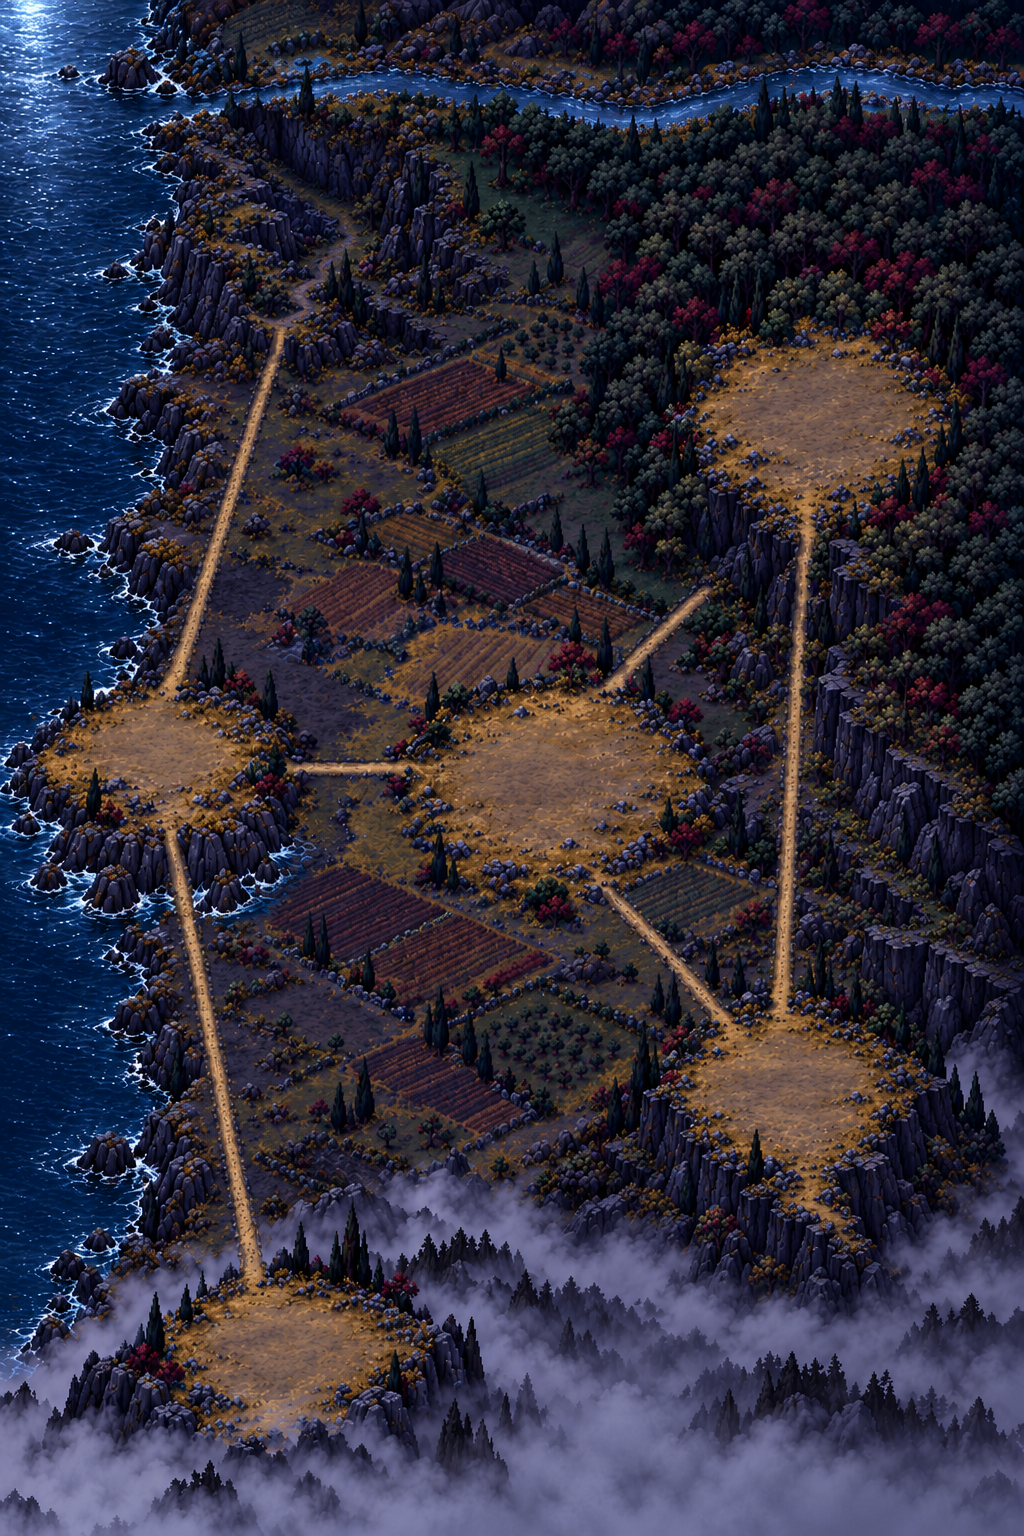
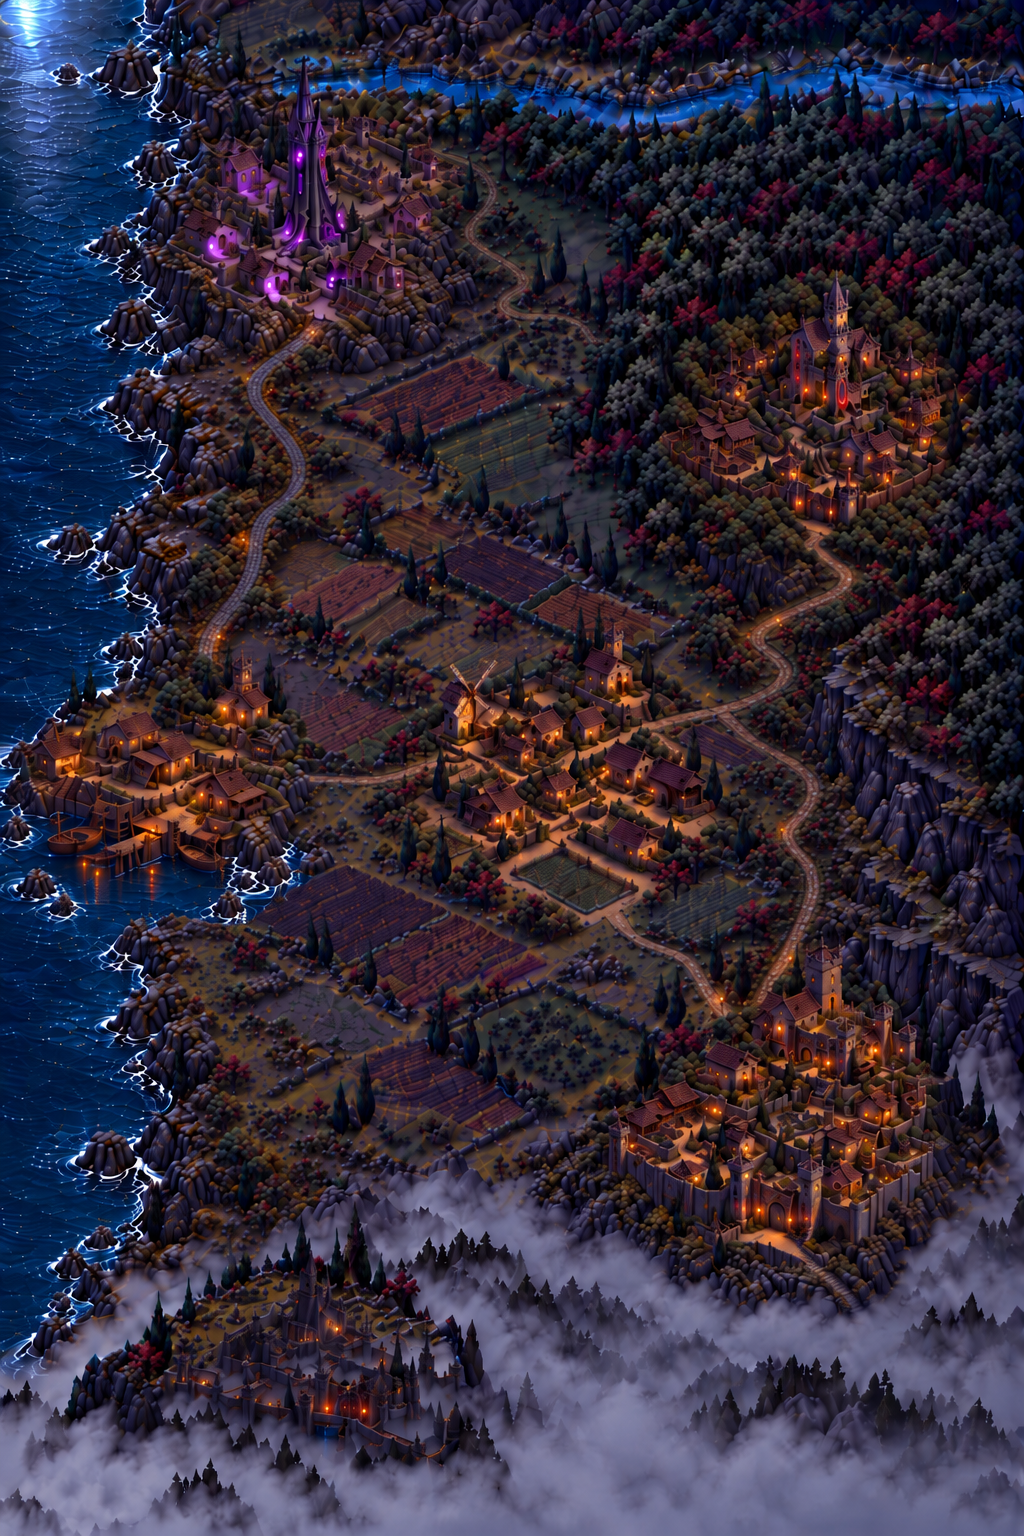
Empire: the author's final map with settlements drawn in
- map_act1_base.png is the author's map with all settlements, winding roads and the southern cities baked in; the separate settlement sprites are no longer drawn over it
- the starting village's light streets are darkened in the asset build to match the rest of the map (window and rune lights untouched)
- town markers become tap areas sized to each drawn settlement, with the name, flag and obelisk as before
- obelisk spots sit on the drawn roads (road) or next to them (field, forest)
- south_city sprite removed: the closed cities are part of the map now

Claude-Session: https://claude.ai/code/session_019MjjXLha8yNk8xC45jXx5G

diff --git a/OlaPT/Views/Game/EmpireView.swift b/OlaPT/Views/Game/EmpireView.swift
@@ -2,37 +2,42 @@ import SwiftUI
 
 // MARK: - Вкладка «Империя»: карта Акта 1, войско, указы
 
-/// Места на карте 320×480 (та же схема, что во вкладке «Правила Акта 1»).
+/// Места на карте 320×480. Поселения, дороги и города юга нарисованы прямо на карте автора
+/// (Tools/game/art/map_act1_base.png) — здесь их центры, площади для нажатия и места обелисков.
 enum MapLayout {
     static let width: CGFloat = 320
     static let height: CGFloat = 480
 
+    /// Центры поселений на карте
     static let towns: [CGPoint] = [
-        CGPoint(x: 95, y: 64), CGPoint(x: 46, y: 242), CGPoint(x: 174, y: 242),
-        CGPoint(x: 250, y: 132), CGPoint(x: 238, y: 350),
+        CGPoint(x: 98, y: 58), CGPoint(x: 50, y: 236), CGPoint(x: 181, y: 235),
+        CGPoint(x: 254, y: 123), CGPoint(x: 240, y: 342),
     ]
-    /// Размер поселения на карте (картинки — втрое подробнее, Tools/game/build_game_assets.py)
+    /// Сколько места поселение занимает на карте: сюда нажимают, под ним — подпись
+    static let townSize: [CGSize] = [
+        CGSize(width: 72, height: 76), CGSize(width: 88, height: 58), CGSize(width: 78, height: 70),
+        CGSize(width: 84, height: 74), CGSize(width: 94, height: 94),
+    ]
+    /// Картинки поселений для шапки карточки (втрое подробнее, Tools/game/build_game_assets.py)
+    static let sprites = ["settle_0_calada", "settle_1_redes", "settle_2_trigo", "settle_3_souto", "settle_4_monte"]
     static let spriteSize: [CGSize] = [
         CGSize(width: 96, height: 112), CGSize(width: 96, height: 96), CGSize(width: 96, height: 96),
         CGSize(width: 96, height: 96), CGSize(width: 112, height: 112),
     ]
-    static let sprites = ["settle_0_calada", "settle_1_redes", "settle_2_trigo", "settle_3_souto", "settle_4_monte"]
-    static let south = CGPoint(x: 84, y: 428)
+    /// Большие города юга в тумане
+    static let south = CGPoint(x: 97, y: 422)
 
-    /// Место для обелиска: на дороге или чуть в стороне от неё (поле, лес).
+    /// Места для обелисков: «дорога» — на нарисованной дороге, «поле» и «лес» — рядом с ней.
+    static let spots: [CGPoint] = [
+        CGPoint(x: 92, y: 145),  CGPoint(x: 110, y: 185),   // башня — сети
+        CGPoint(x: 115, y: 241), CGPoint(x: 110, y: 278),   // сети — долина
+        CGPoint(x: 190, y: 186), CGPoint(x: 224, y: 178),   // долина — роща
+        CGPoint(x: 202, y: 295), CGPoint(x: 218, y: 280),   // долина — крепость
+        CGPoint(x: 276, y: 196), CGPoint(x: 252, y: 265),   // роща — крепость
+    ]
+
     static func spot(_ id: Int) -> CGPoint {
-        let s = Act1.spots[id]
-        let a = towns[s.between.0], b = towns[s.between.1]
-        let first = Act1.spots.first(where: { $0.between == s.between })?.id == id
-        let t: CGFloat = first ? 0.40 : 0.60
-        var p = CGPoint(x: a.x + (b.x - a.x) * t, y: a.y + (b.y - a.y) * t)
-        if s.terrain != .road {
-            let dx = b.x - a.x, dy = b.y - a.y
-            let len = max(1, (dx * dx + dy * dy).squareRoot())
-            p.x += -dy / len * 14
-            p.y += dx / len * 14
-        }
-        return p
+        return spots[id]
     }
 }
 
@@ -203,19 +208,13 @@ struct EmpireView: View {
                         .position(x: (MapLayout.towns[p.from].x + MapLayout.towns[p.target].x) / 2 * s,
                                   y: (MapLayout.towns[p.from].y + MapLayout.towns[p.target].y) / 2 * s)
                 }
-                Image("south_city")
-                    .interpolation(.high)
-                    .resizable()
-                    .frame(width: 120 * s, height: 80 * s)
-                    .opacity(0.9)
-                    .position(x: MapLayout.south.x * s, y: MapLayout.south.y * s)
                 Text(L("Большие города юга"))
                     .font(Theme.pixel(10, relativeTo: .caption2))
                     .foregroundColor(Theme.textDim)
                     .padding(.horizontal, 4)
                     .background(Theme.panelDeep.opacity(0.75))
                     .fixedSize()
-                    .position(x: MapLayout.south.x * s, y: (MapLayout.south.y + 42) * s)
+                    .position(x: MapLayout.south.x * s, y: (MapLayout.south.y + 32) * s)
             }
         }
         .aspectRatio(MapLayout.width / MapLayout.height, contentMode: .fit)
@@ -228,17 +227,16 @@ struct EmpireView: View {
     @ViewBuilder
     private func townMarker(_ i: Int, scale s: CGFloat) -> some View {
         let t = game.towns[i]
-        let size = MapLayout.spriteSize[i]
+        let size = MapLayout.townSize[i]
         let p = MapLayout.towns[i]
         Button {
             town = TownRef(id: i)
         } label: {
             ZStack(alignment: .top) {
-                Image(MapLayout.sprites[i])
-                    .interpolation(.high)
-                    .resizable()
+                // само поселение нарисовано на карте — здесь только место для нажатия
+                Color.clear
                     .frame(width: size.width * s, height: size.height * s)
-                    .saturation(t.owner == .mask ? 1 : 0.75)
+                    .contentShape(Rectangle())
                 VStack(spacing: 1) {
                     Text(GameTexts.townName(i))
                         .font(Theme.pixel(10, relativeTo: .caption2))

diff --git a/Tools/game/build_game_assets.py b/Tools/game/build_game_assets.py
@@ -30,8 +30,8 @@ SETTLEMENTS = [
     ("settle_4_monte", 112, 112),
 ]
 MAP = ("map_act1", 320, 480)
-# Большие города юга в тумане: закрыты в Акте 1
-SOUTH = ("south_city", 120, 80)
+# Поселения и большие города юга нарисованы прямо на карте (map_act1_base.png);
+# отдельные картинки поселений нужны только для шапки карточки поселения.
 
 
 def imageset(name, img, scales=(1,), template=False, folder=OUT):
@@ -68,6 +68,39 @@ def graded(img, k, tint, sat):
     out = g + (out - g) * sat
     out = out * (1 - lights) + rgb * lights
     return Image.fromarray(np.dstack([np.clip(out, 0, 255), al]).astype("uint8"))
+
+
+def darker_calada_streets(img):
+    """Молчаливая деревня на карте автора: светлые улицы и площадь у башни — темнее,
+    как дороги остальной карты. Фиолетовые огни и окна не трогаем."""
+    import numpy as np
+    w0, h0 = img.size
+    k = w0 / 1024
+    a = np.asarray(img).astype(float)
+    hsv = np.asarray(img.convert("HSV")).astype(float)
+    s, v = hsv[..., 1], hsv[..., 2]
+
+    def smooth(x, lo, hi):
+        t = np.clip((x - lo) / (hi - lo), 0, 1)
+        return t * t * (3 - 2 * t)
+
+    # плато деревни (в точках картинки 1024×1536)
+    poly = [(205, 170), (240, 140), (350, 115), (385, 110), (450, 145), (460, 190), (435, 230),
+            (410, 275), (360, 290), (350, 320), (315, 340), (290, 320), (255, 300), (210, 275), (190, 240)]
+    area = Image.new("L", img.size, 0)
+    ImageDraw.Draw(area).polygon([(x * k, y * k) for x, y in poly], fill=255)
+    area = np.asarray(area.filter(ImageFilter.GaussianBlur(6 * k))).astype(float) / 255
+    # светлая и не слишком цветная «мостовая», но не яркие сердцевины огней
+    wgt = smooth(v, 60, 105) * (1 - smooth(s, 105, 150)) * (1 - smooth(v, 170, 215))
+    lights = (s > 120) & (v > 150)
+    halo = np.asarray(Image.fromarray((lights * 255).astype("uint8")).filter(ImageFilter.MaxFilter(7))) > 0
+    wgt[halo] *= 0.35
+    wgt[lights] = 0
+    wgt = np.asarray(Image.fromarray((wgt * 255).astype("uint8")).filter(ImageFilter.GaussianBlur(0.8))).astype(float) / 255
+    wgt *= area
+    out = a * (1 - 0.5 * wgt)[..., None]
+    out = out * (1 - 0.5 * wgt[..., None] * (1 - np.array([0.98, 0.94, 1.04])))
+    return Image.fromarray(np.clip(out, 0, 255).astype("uint8"))
 
 
 def sprite_from_art(path, w, h, colors=None):
@@ -233,14 +266,11 @@ def main():
             img = placeholder(name, w, h, seed=i).resize((w * SCALE, h * SCALE), Image.NEAREST)
             report.append(name + ": заглушка")
         imageset(name, img)
-    path = os.path.join(ART, SOUTH[0] + ".png")
-    if os.path.exists(path):
-        imageset(SOUTH[0], sprite_from_art(path, SOUTH[1] * SCALE, SOUTH[2] * SCALE))
-        report.append(SOUTH[0] + ": рисунок автора")
     path = os.path.join(ART, "map_act1_base.png")
     if os.path.exists(path):
-        img = Image.open(path).convert("RGB").resize((MAP[1] * SCALE, MAP[2] * SCALE), Image.LANCZOS)
-        report.append("карта: рисунок автора")
+        img = darker_calada_streets(Image.open(path).convert("RGB"))
+        img = img.resize((MAP[1] * SCALE, MAP[2] * SCALE), Image.LANCZOS)
+        report.append("карта: рисунок автора (улицы Молчаливой деревни темнее)")
     else:
         img = map_placeholder().resize((MAP[1] * SCALE, MAP[2] * SCALE), Image.NEAREST)
         report.append("карта: заглушка по схеме")
